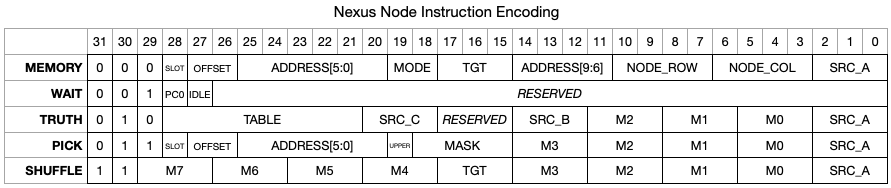
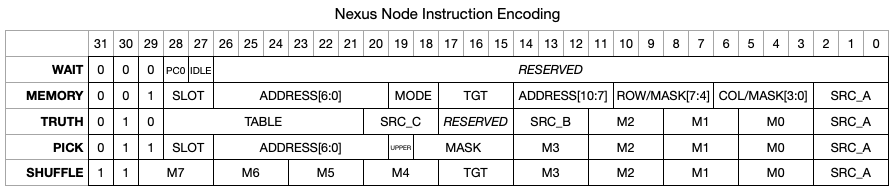
Docs: Updating ISA document

diff --git a/docs/isa.md b/docs/isa.md
@@ -2,253 +2,106 @@
 
 ## Encodings Table
 
-<style>
-table {
-    font-family:monospace;
-}
-table th, table td {
-    padding:3px;
-}
-table td, table th {
-    text-align:center;
-}
-table td {
-    border:1px solid #666;
-}
-table tr td:first-child, table tr th:first-child {
-    text-align:right;
-    border:none;
-    padding-right:10px;
-}
-</style>
-<table>
-    <tr>
-        <th>Instruction</th>
-        <th>31</th>
-        <th>30</th>
-        <th>29</th>
-        <th>28</th>
-        <th>27</th>
-        <th>26</th>
-        <th>25</th>
-        <th>24</th>
-        <th>23</th>
-        <th>22</th>
-        <th>21</th>
-        <th>20</th>
-        <th>19</th>
-        <th>18</th>
-        <th>17</th>
-        <th>16</th>
-        <th>15</th>
-        <th>14</th>
-        <th>13</th>
-        <th>12</th>
-        <th>11</th>
-        <th>10</th>
-        <th>9</th>
-        <th>8</th>
-        <th>7</th>
-        <th>6</th>
-        <th>5</th>
-        <th>4</th>
-        <th>3</th>
-        <th>2</th>
-        <th>1</th>
-        <th>0</th>
-    </tr>
-    <tr>
-        <td>LOAD</td>
-        <td colspan="3">000</td>
-        <td colspan="5">RSVD</td>
-        <td colspan="2">OFFSET</td>
-        <td colspan="10">ADDRESS</td>
-        <td colspan="1">SLOT</td>
-        <td colspan="5">RSVD</td>
-        <td colspan="3">TGT</td>
-        <td colspan="3">RSVD</td>
-    </tr>
-    <tr>
-        <td>STORE</td>
-        <td colspan="3">001</td>
-        <td colspan="5">RSVD</td>
-        <td colspan="2">OFFSET</td>
-        <td colspan="10">ADDRESS</td>
-        <td colspan="1">SLOT</td>
-        <td colspan="8">MASK</td>
-        <td colspan="3">SRC</td>
-    </tr>
-    <tr>
-        <td>BRANCH</td>
-        <td colspan="3">010</td>
-        <td colspan="1">MARK</td>
-        <td colspan="3">COMP</td>
-        <td colspan="1">IDLE</td>
-        <td colspan="2">OFFSET</td>
-        <td colspan="10">PC</td>
-        <td colspan="3">RSVD</td>
-        <td colspan="3">SRC_B</td>
-        <td colspan="3">RSVD</td>
-        <td colspan="3">SRC_A</td>
-    </tr>
-    <tr>
-        <td>SEND</td>
-        <td colspan="3">011</td>
-        <td colspan="4">RSVD</td>
-        <td colspan="1">TRIG</td>
-        <td colspan="2">OFFSET</td>
-        <td colspan="10">ADDRESS</td>
-        <td colspan="1">SLOT</td>
-        <td colspan="4">NODE_ROW</td>
-        <td colspan="4">NODE_COL</td>
-        <td colspan="3">SRC</td>
-    </tr>
-    <tr>
-        <td>TRUTH</td>
-        <td colspan="3">100</td>
-        <td colspan="8">TABLE</td>
-        <td colspan="3">MUX_C</td>
-        <td colspan="3">MUX_B</td>
-        <td colspan="3">MUX_A</td>
-        <td colspan="3">SRC_C</td>
-        <td colspan="3">SRC_B</td>
-        <td colspan="3">RSVD</td>
-        <td colspan="3">SRC_A</td>
-    </tr>
-    <tr>
-        <td>ARITH</td>
-        <td colspan="3">101</td>
-        <td colspan="5">RSVD</td>
-        <td colspan="2">OP</td>
-        <td colspan="13">RSVD</td>
-        <td colspan="3">SRC_B</td>
-        <td colspan="3">TGT</td>
-        <td colspan="3">SRC_A</td>
-    </tr>
-    <tr>
-        <td>SHUFL</td>
-        <td colspan="2">11</td>
-        <td colspan="3">B7</td>
-        <td colspan="3">B6</td>
-        <td colspan="3">B5</td>
-        <td colspan="3">B4</td>
-        <td colspan="3">B3</td>
-        <td colspan="3">B2</td>
-        <td colspan="3">B1</td>
-        <td colspan="3">B0</td>
-        <td colspan="3">TGT</td>
-        <td colspan="3">SRC</td>
-    </tr>
-</table>
+![Instruction Encodings](./images/nexus_instruction_encoding.png)
 
-## `LOAD` & `STORE`
+## `WAIT`
 
-These operations manipulate the data memory of the node, and share the following
-fields:
+The first instruction is used to stall execution until a trigger pulse arrives
+from the controller, it carries two arguments:
 
- * `ADDRESS` - 10-bit address allows access to the entire 1024 entry memory;
- * `SLOT` - each memory entry is 32-bit, but the node handles this as 2x16-bit
-   slots - this bit selects between the lower (`[15:0]`) and upper (`[31:16]`)
-   slots;
- * `OFFSET` - each 16-bit slot is split into 2x8-bit sub-slots and this field
-   controls which sub-slot is selected;
+ * `PC0` - when set, the program counter will reset to `0` when the trigger pulse
+   arrives (effectively restarting the program), otherwise it will continue
+   executing from the next instruction;
+ * `IDLE` - when set, the node's `IDLE` flag will be set high to indicate that
+   it's evaluation for this cycle is complete.
 
-The `LOAD` instruction also has a 3-bit `TGT` register field, while the `STORE`
-instruction has a 3-bit `SRC` register field. The `STORE` instruction also has
-an 8-bit `MASK` field which controls which bits are updated in the sub-slot.
+## `MEMORY`
 
-The encoding of the `OFFSET` field is as follows:
+This operation can perform load operations from the node's local memory and store
+operations to both the node's local memory and any remote node's memory (in the
+latter case this is known as a 'send').
 
- * `2b00` - use the node's default offset mode (set by a `BRANCH` instruction);
- * `2b01` - use the inverse of the node's default state;
- * `2b10` - force use of the lower sub-slot;
- * `2b11` - force use of the upper sub-slot;
+The `MODE` field encodes the desired behaviour:
 
-The full 12-bit address of the 8-bit element of the memory can be expressed as:
+ * `LOAD` (`2b00`) - performs a load operation from local memory;
+ * `STORE` (`2b01`) - performs a store operation to local memory;
+ * `SEND` (`2b10`) - sends data via the mesh to update data in a remote memory.
+
+In all cases, the address is encoded by 3 fields:
+
+ * `ADDRESS[10:7]` and `ADDRESS[6:0]` refer to a specific 16-bit element within
+   the local or remote memory;
+ * `SLOT` selects between the upper and lower 8-bits of the 16-bit element.
+
+The slot is encoded to support double buffering. Each node maintains a local bit
+of state which alternates on each simulated cycle, allowing memory operations to
+alternately target different 8-bit chunks.
+
+ * `PRESERVE` (`2b00`) - uses the node's current slot state;
+ * `INVERSE` (`2b01`) - uses the inverse of the node's current slot state;
+ * `LOWER` (`2b10`) - forces use of the lower 8-bit slot;
+ * `UPPER` (`2b11`) - forces use of the upper 8-bit slot.
+
+Therefore the full 12-bit address of the 8-bit element of the memory can be
+expressed as:
 
 ```
-full_address = { ADDRESS[9:0], SLOT, OFFSET[1] ? OFFSET[0] : (OFFSET[0] ^ DEFAULT) };
+full_address = { ADDRESS[10:0], SLOT[1] ? SLOT[0] : (SLOT[0] ^ STATE) };
 ```
 
-## `BRANCH`
+For `SEND` operations, bits `10:3` form the address of the target node encoded
+as a 4-bit `ROW` and 4-bit `COLUMN`.
 
-This operation allows the program counter to be manipulated, along with the
-`IDLE` and default `SUBSLOT` state of the node:
+For `STORE` operations, bits `10:3` (`MASK`) hold an 8-bit mask which is used to
+select which bits of the 8-bit slot should be updated.
 
- * `PC` - 10-bit target address to jump to if branch evaluates successfully;
- * `SRC_A` - 3-bit source register field as the first input to the comparison;
- * `SRC_B` - 3-bit source register field as the second input to the comparison;
- * `IDLE` - whether to set the node's `IDLE` bit if the branch is taken;
- * `COMP` - 3-bit selector as to the comparison to perform;
- * `OFFSET` - 2-bit mode to update the node's default `OFFSET`;
- * `MARK` - whether to update the re-trigger address when the branch is taken;
+For `SEND` and `STORE` operations, bits `2:0` (`SRC_A`) encode the source register
+to take the value to write to memory.
 
-The encoding of the `COMP` field is as follows:
-
- * `3b000` - unconditional branch (`JUMP`);
- * `3b001` - unconditional branch after next trigger received (`WAIT`);
- * `3b010` - conditional branch if `SRC_A == SRC_B` (i.e. `BEQ`);
- * `3b011` - conditional branch if `SRC_A != SRC_B` (i.e. `BNE`);
- * `3b100` - conditional branch if `SRC_A >= SRC_B` (i.e. `BGE`);
- * `3b101` - conditional branch if `SRC_A <  SRC_B` (i.e. `BLT`);
- * `3b110` - conditional branch if `SRC_A == 0` (i.e. `BEQZ`);
- * `3b111` - conditional branch if `SRC_A != 0` (i.e. `BNEZ`);
-
-The encoding of the `OFFSET` field is similar to `LOAD` & `STORE`:
-
- * `2b00` - does not alter the node's default `OFFSET` state;
- * `2b01` - sets the node's default `OFFSET` state to the inverse of its current
-   value;
- * `2b10` - forces the node's default `OFFSET` state to `0`;
- * `2b10` - forces the node's default `OFFSET` state to `1`;
-
-## `SEND`
-
-Queues up a 8-bit atom of data to send to any other node in the system:
-
- * `SRC` - 3-bit source register of data to send;
- * `NODE_ROW` - 4-bit row of the node to send to in the mesh;
- * `NODE_COL` - 4-bit column of the node to send to in the mesh;
- * `ADDRESS` - 10-bit address of the 32-bit memory entry in the target node;
- * `SLOT` - target slot selection (same as `STORE`, but targeting another node);
- * `OFFSET` - target sub-slot selection (same as `STORE`, but targeting another node);
- * `TRIG` - whether to re-trigger evaluation in the target node from the last mark;
+For `LOAD` operations, bits `17:15` (`TGT`) encode the target register to store
+the data read from the memory.
 
 ## `TRUTH`
 
 Performs logical operations on up to 3x8-bit sources:
 
  * `SRC_A`, `SRC_B`, `SRC_C` - input register selections;
- * `MUX_A`, `MUX_B`, `MUX_C` - bit selection from each of the input registers;
+ * `MUX_2`, `MUX_1`, `MUX_0` - bit selection from each of the input registers;
  * `TABLE` - encoded truth table;
 
 The `TRUTH` instruction does not have a target register, instead the result is
 always placed into register 7. Register 7 is a shift register, and each new
 value is inserted at bit 0 with existing entries shifted up one place.
 
-## `ARITH`
+## `PICK`
 
-Perform arithmetic operations on 2x8-bit sources:
+Selects up to 4-bits from a register and writes them to a limited area of the
+data memory, this is particularly useful for shortening 'gather' sequences when
+preparing messages to send to other nodes to update signal state.
 
- * `SRC_A`, `SRC_B` - input register selections;
- * `TGT` - target register selection;
- * `OP` - 2-bit encoded operation to perform;
+ * `SRC_A` - input register selection;
+ * `MUX_[3:0]` - selection values for each of the 4-bits to gather from the
+   source register;
+ * `MASK` - masks which bits selected using the `MUX_N` fields should be written
+   to the local memory;
+ * `UPPER` - selects the upper or lower 4-bits of the 8-bit slot within the memory;
+ * `ADDRESS[6:0]` - a shortened address to select 16-bit elements within a limited
+   range of the memory;
+ * `SLOT` - selects the upper or lower 8-bit slot within the 16-bit element,
+   using the same encoding mentioned above for the `MEMORY` operation.
 
-The encoding of the `OP` field is as follows:
+The address range of the `PICK` instruction is limited, and is offset from the
+base of the memory by `64`. That is to say that the minimum address is `0x40`
+and the maximum address is `0xBF`.
 
- * `2b00` - perform `SRC_A + SRC_B`;
- * `2b01` - perform `SRC_A - SRC_B` (unsigned);
- * `2b10` - perform an `AND` reduction on `SRC_A` (e.g. `TGT = {8{&(SRC_A)}});`);
- * `2b10` - perform an `OR` reduction on `SRC_A` (e.g. `TGT = {8{|(SRC_A)}});`);
-
-## `SHUFL`
+## `SHUFFLE`
 
 Rearranges the bits of an source register into an arbitrary order:
 
- * `SRC` - input register selection;
+ * `SRC_A` - input register selection;
  * `TGT` - target register selection;
- * `B[7-0]` - selection values for each bit in the target register from each bit
-   in the source register.
+ * `MUX_[7-0]` - selection values for each bit in the target register from each
+   bit in the source register.
 
 Note that this register overloads bit 29 from being the operation encoding, to
 being the MSB of the `B7` mux control.
